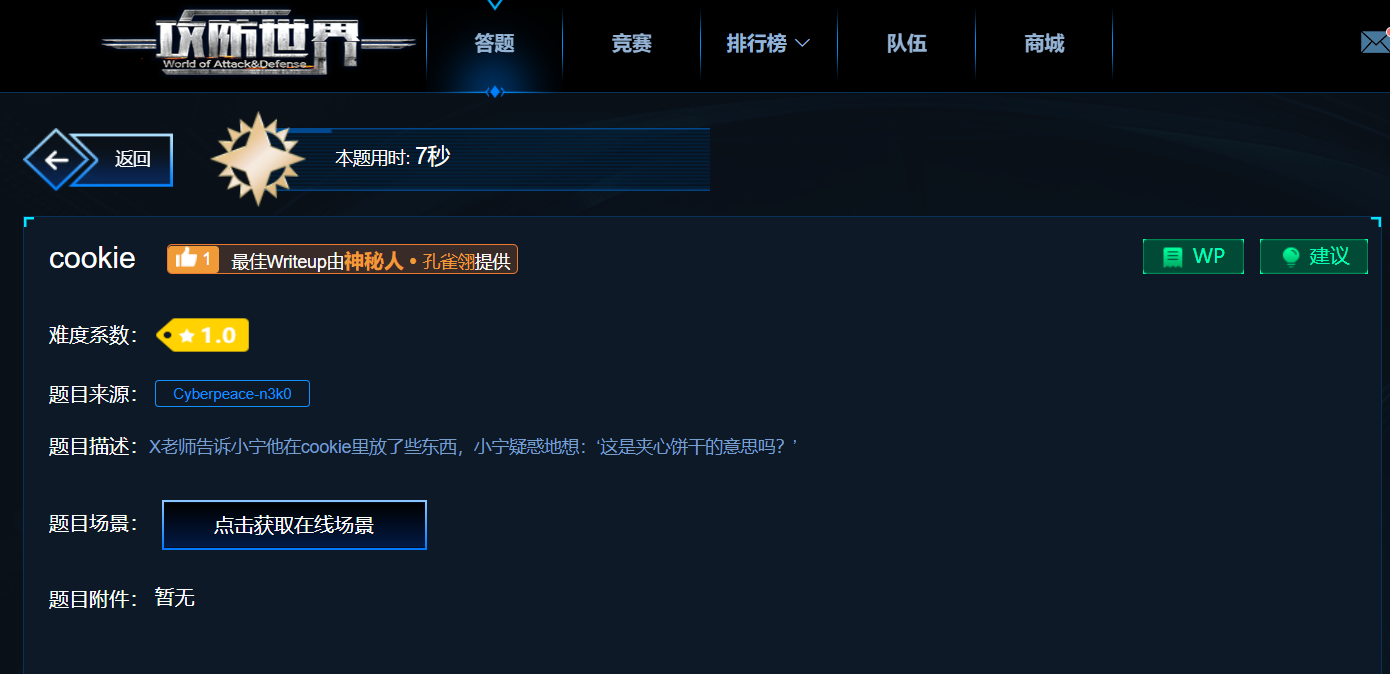
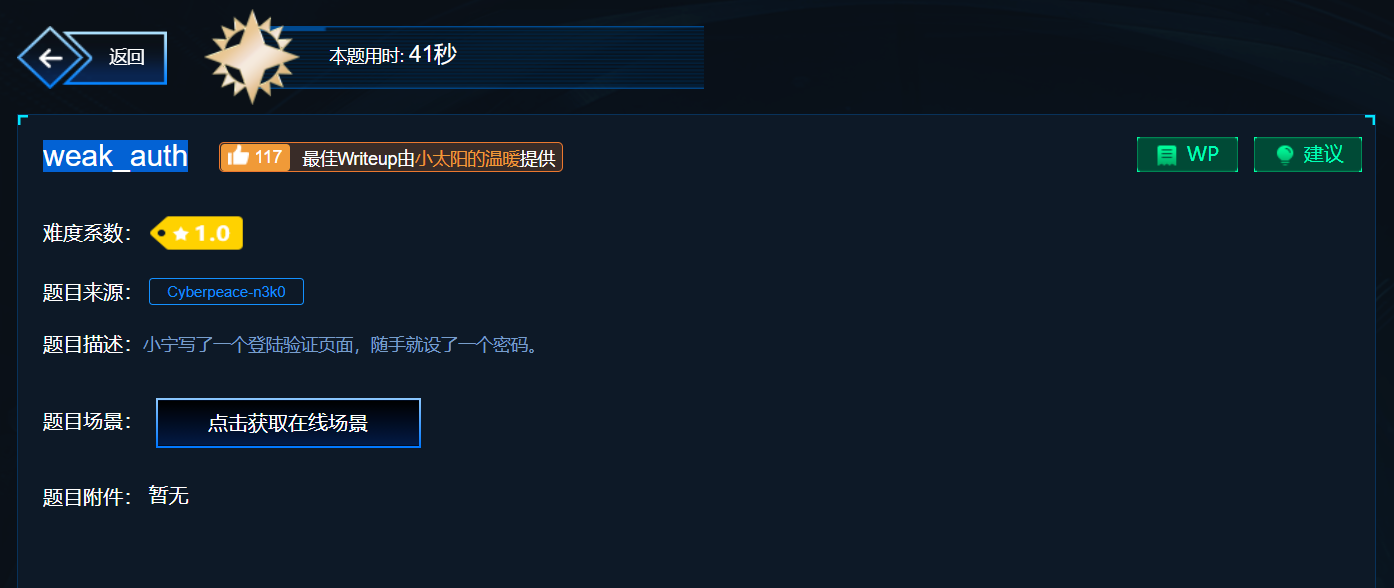
GitBook: [master] 105 pages and 19 assets modified

diff --git a/ctf-bi-sai/bi-sai-ti-mu-jie-da-ji-wp/web-lei-xing.md b/ctf-bi-sai/bi-sai-ti-mu-jie-da-ji-wp/web-lei-xing.md
@@ -6,51 +6,83 @@ description: 此分类记录web类型题目解答wp
 
 题目1：view\_source
 
-![](../../.gitbook/assets/image%20%28140%29.png)
+![](../../.gitbook/assets/image%20%28148%29.png)
 
 解答过程：直接F12查看源码，得到flag
 
-![](../../.gitbook/assets/image%20%28136%29.png)
+![](../../.gitbook/assets/image%20%28142%29.png)
 
 题目2：robots
 
-![](../../.gitbook/assets/image%20%28135%29.png)
+![](../../.gitbook/assets/image%20%28141%29.png)
 
 解答过程：
 
 题目提示Robots，因此直奔robots.txt
 
-![](../../.gitbook/assets/image%20%28134%29.png)
+![](../../.gitbook/assets/image%20%28136%29.png)
 
 发现了有意思的东西，直接访问该php
 
-![](../../.gitbook/assets/image%20%28139%29.png)
+![](../../.gitbook/assets/image%20%28146%29.png)
 
 题目3：backup
 
-![](../../.gitbook/assets/image%20%28137%29.png)
+![](../../.gitbook/assets/image%20%28143%29.png)
 
 解答过程：
 
 题目提示你知道index.php的备份文件名
 
-![](../../.gitbook/assets/image%20%28141%29.png)
+![](../../.gitbook/assets/image%20%28149%29.png)
 
 因此，直接访问.index.php.swp/.index.php.bak/index.php.bak
 
-![](../../.gitbook/assets/image%20%28142%29.png)
+![](../../.gitbook/assets/image%20%28150%29.png)
 
 题目4：cookie
 
-![](../../.gitbook/assets/image%20%28132%29.png)
+![](../../.gitbook/assets/image%20%28133%29.png)
 
 解答过程：
 
 cookie提示,F12查看cookie得知需要访问cookie.php
 
-![](../../.gitbook/assets/image%20%28133%29.png)
+![](../../.gitbook/assets/image%20%28135%29.png)
 
 访问cookie.php，提示see http response
 
+![](../../.gitbook/assets/image%20%28145%29.png)
+
+题目5：disabled\_button
+
+![](../../.gitbook/assets/image%20%28137%29.png)
+
+解答过程：F12,审计源代码，定位按钮，去掉disable
+
 ![](../../.gitbook/assets/image%20%28138%29.png)
+
+题目6：weak\_auth
+
+![](../../.gitbook/assets/image%20%28132%29.png)
+
+解答过程：
+
+![](../../.gitbook/assets/image%20%28134%29.png)
+
+![](../../.gitbook/assets/image%20%28139%29.png)
+
+题目7：simple\_php
+
+![](../../.gitbook/assets/image%20%28144%29.png)
+
+解答过程：
+
+![](../../.gitbook/assets/image%20%28147%29.png)
+
+![](../../.gitbook/assets/image%20%28140%29.png)
+
+
+
+
 
